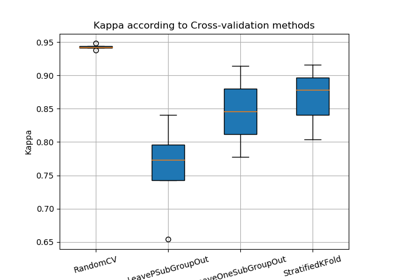
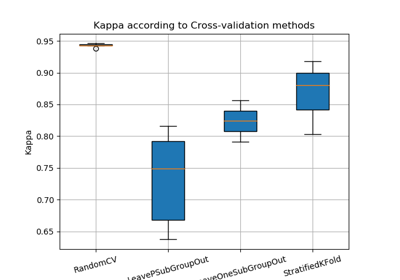
Add subsection for API with examples

Changed region(s): [[0.09, 0.2, 0.87, 0.8857], [0.09, 0.1143, 0.87, 0.2]]

diff --git a/docs/source/auto_examples/learnTools/learnWithRFandCompareCV.rst b/docs/source/auto_examples/learnTools/learnWithRFandCompareCV.rst
@@ -110,33 +110,33 @@ Create list of different CV
     Fitting 5 folds for each of 2 candidates, totalling 10 fits
     best n_estimators : 200
     Kappa for RandomCV
-    [0.94169994306848903]
-    [0.94391869147787955]
-    [0.94807225199295819]
-    [0.93797013086917802]
-    [0.9423882031859746]
+    [0.94262495481241826]
+    [0.94604042221978635]
+    [0.94229794789651311]
+    [0.94487152450307033]
+    [0.93771756719661881]
     ====================
     Fitting 5 folds for each of 2 candidates, totalling 10 fits
-    best n_estimators : 200
+    best n_estimators : 100
     Kappa for RandomCV
-    [0.77323834382370704]
-    [0.79569486210638019]
-    [0.65384810198535337]
-    [0.74272087034893419]
-    [0.84051840514572429]
+    [0.66839299125970797]
+    [0.79215269835395463]
+    [0.63743337626285557]
+    [0.81577700792361574]
+    [0.74882418390582572]
     ====================
     Fitting 2 folds for each of 2 candidates, totalling 4 fits
-    best n_estimators : 200
+    best n_estimators : 100
     Kappa for RandomCV
-    [0.7779631363790428]
-    [0.91391701610666098]
+    [0.85613675866689887]
+    [0.79160218653553194]
     ====================
     Fitting 3 folds for each of 2 candidates, totalling 6 fits
     best n_estimators : 200
     Kappa for RandomCV
-    [0.91596913520484835]
-    [0.87837375589853495]
-    [0.8038466302102002]
+    [0.91804636686640073]
+    [0.88054185470962043]
+    [0.80320271197351745]
     ====================
 
 
@@ -164,7 +164,7 @@ Plot example
 
 
 
-**Total running time of the script:** ( 0 minutes  46.985 seconds)
+**Total running time of the script:** ( 0 minutes  36.153 seconds)
 
 
 .. _sphx_glr_download_auto_examples_learnTools_learnWithRFandCompareCV.py:

diff --git a/docs/source/auto_examples/rasterTools/rasterMath.rst b/docs/source/auto_examples/rasterTools/rasterMath.rst
@@ -70,19 +70,19 @@ Initialize Random-Forest
 
  .. code-block:: none
 
-    [[ 104.  100.   71.]
-     [ 107.  103.   76.]
-     [ 130.  124.  102.]
+    [[ 178.  154.  120.]
+     [ 196.  172.  138.]
+     [ 206.  182.  148.]
      ..., 
-     [ 182.  173.  158.]
-     [ 164.  158.  146.]
-     [ 116.  109.  101.]]
+     [  94.   85.   68.]
+     [ 174.  161.  144.]
+     [ 196.  183.  164.]]
 
 
 Plot example
 
 
-**Total running time of the script:** ( 0 minutes  0.024 seconds)
+**Total running time of the script:** ( 0 minutes  0.002 seconds)
 
 
 .. _sphx_glr_download_auto_examples_rasterTools_rasterMath.py:

diff --git a/docs/source/auto_examples/vectorTools/readVectorFields.rst b/docs/source/auto_examples/vectorTools/readVectorFields.rst
@@ -136,7 +136,7 @@ As multiple fields can begin with C, function returns a column per field
     (17, 1)
 
 
-**Total running time of the script:** ( 0 minutes  0.007 seconds)
+**Total running time of the script:** ( 0 minutes  0.010 seconds)
 
 
 .. _sphx_glr_download_auto_examples_vectorTools_readVectorFields.py:

diff --git a/docs/source/auto_examples/crossValidation/LeaveOneSubGroupOut.rst b/docs/source/auto_examples/crossValidation/LeaveOneSubGroupOut.rst
@@ -147,7 +147,7 @@ as MuseoToolBox use one group per Y label
     (11802,) (845,)
 
 
-**Total running time of the script:** ( 0 minutes  0.218 seconds)
+**Total running time of the script:** ( 0 minutes  0.236 seconds)
 
 
 .. _sphx_glr_download_auto_examples_crossValidation_LeaveOneSubGroupOut.py:

diff --git a/docs/source/index.rst b/docs/source/index.rst
@@ -34,17 +34,16 @@ What is MuseoToolBox ?
    self
    
 .. toctree::
-   :maxdepth: 2
+   :maxdepth: 3
    :caption: Examples gallery
 
    auto_examples/index
-   
+  
 .. toctree::
    :maxdepth: 2
    :caption: Documentation API
    
    api
-
       
 Indices and tables
 ==================

diff --git a/docs/source/auto_examples/vectorTools/copyRasterInVectorFields.rst b/docs/source/auto_examples/vectorTools/copyRasterInVectorFields.rst
@@ -190,7 +190,7 @@ Plot blue and red band
 
 
 
-**Total running time of the script:** ( 0 minutes  2.089 seconds)
+**Total running time of the script:** ( 0 minutes  1.983 seconds)
 
 
 .. _sphx_glr_download_auto_examples_vectorTools_copyRasterInVectorFields.py:

diff --git a/docs/source/auto_examples/crossValidation/LeavePSubGroupOut.rst b/docs/source/auto_examples/crossValidation/LeavePSubGroupOut.rst
@@ -123,7 +123,7 @@ Plot example in image
 
 
 
-**Total running time of the script:** ( 0 minutes  0.098 seconds)
+**Total running time of the script:** ( 0 minutes  0.142 seconds)
 
 
 .. _sphx_glr_download_auto_examples_crossValidation_LeavePSubGroupOut.py:

diff --git a/docs/source/auto_examples/crossValidation/SpatialLeaveOnePixelOut.rst b/docs/source/auto_examples/crossValidation/SpatialLeaveOnePixelOut.rst
@@ -134,7 +134,7 @@ Draw image
 
 
 
-**Total running time of the script:** ( 0 minutes  1.428 seconds)
+**Total running time of the script:** ( 0 minutes  1.576 seconds)
 
 
 .. _sphx_glr_download_auto_examples_crossValidation_SpatialLeaveOnePixelOut.py:

diff --git a/docs/source/auto_examples/crossValidation/RandomSampling50.rst b/docs/source/auto_examples/crossValidation/RandomSampling50.rst
@@ -174,7 +174,7 @@ Plot example
 
 
 
-**Total running time of the script:** ( 0 minutes  0.131 seconds)
+**Total running time of the script:** ( 0 minutes  0.143 seconds)
 
 
 .. _sphx_glr_download_auto_examples_crossValidation_RandomSampling50.py:

diff --git a/docs/source/auto_examples/learnTools/learnWithRFandRS50.rst b/docs/source/auto_examples/learnTools/learnWithRFandRS50.rst
@@ -262,7 +262,7 @@ Plot example
 
 
 
-**Total running time of the script:** ( 0 minutes  53.225 seconds)
+**Total running time of the script:** ( 0 minutes  44.867 seconds)
 
 
 .. _sphx_glr_download_auto_examples_learnTools_learnWithRFandRS50.py:

diff --git a/docs/source/api.rst b/docs/source/api.rst
@@ -1,12 +1,8 @@
-Documentation API
-===================
-
 .. currentmodule:: MuseoToolBox
 
 .. automodule:: MuseoToolBox
    :no-members:
    :no-inherited-members:
-
 
 .. autosummary::
    :toctree: modules/

diff --git a/docs/source/modules/MuseoToolBox.crossValidationTools.rst b/docs/source/modules/MuseoToolBox.crossValidationTools.rst
@@ -1,4 +1,4 @@
-MuseoToolBox.crossValidationTools
+crossValidationTools
 =================================
 
 .. automodule:: MuseoToolBox.crossValidationTools
